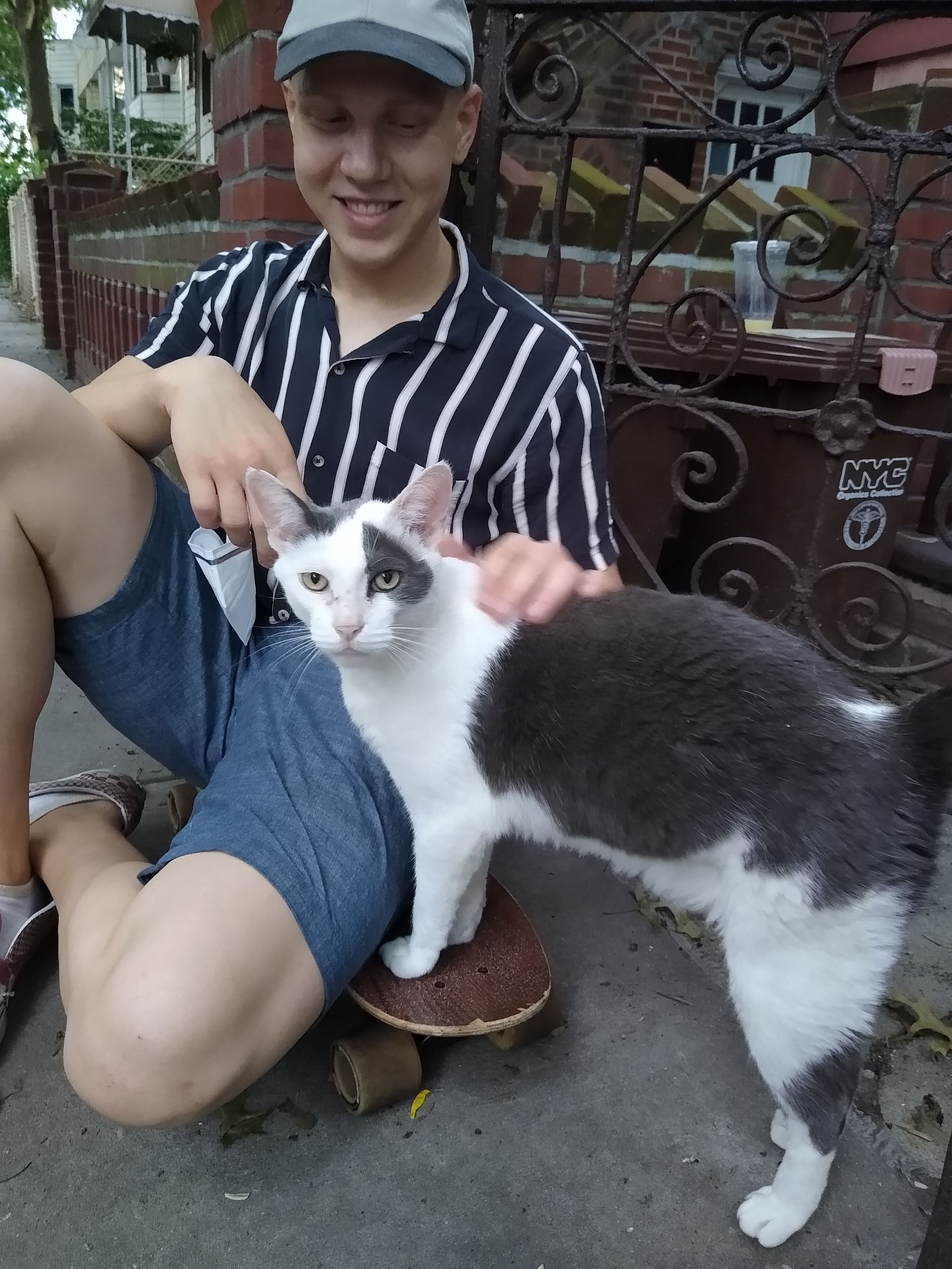
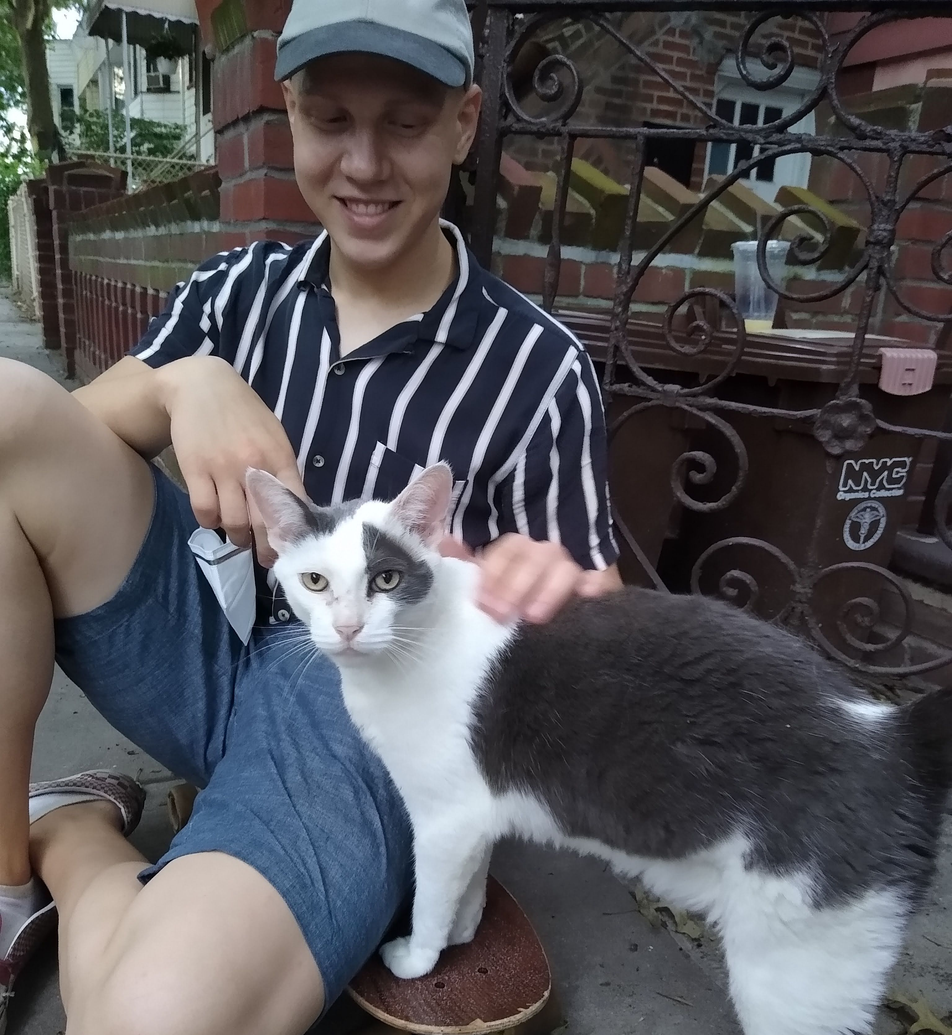
fix arrows; resize images

diff --git a/css/index.css b/css/index.css
@@ -11,6 +11,7 @@ a {
   padding: 10px;
 }
 
+/* Make links change color when passed over */
 a:hover {
   color: #B4436C;
   background-color: #F2C14E;
@@ -30,6 +31,9 @@ img {
   padding: 10px;
 }
 
+.sampic, .krispic, .gobpic {
+  width: 60%;
+}
 
 /* From here on is all lifted from W3schools */
 
@@ -66,6 +70,13 @@ img {
 /* Position the "next button" to the right */
 .next {
   right: 0;
+  border-radius: 3px 0 0 3px;
+}
+
+/* Position the "prev button" to the left */
+/* I actually added this! Weird that W3 didn't have it. */
+.prev {
+  left: 0;
   border-radius: 3px 0 0 3px;
 }
 

diff --git a/index.html b/index.html
@@ -58,19 +58,19 @@
 
  <div class="mySlides fade">
    <div class="numbertext">4 / 6</div>
-   <img src="img/sam.jpg">
+   <img class="sampic" src="img/sam.jpg">
    <div class="text">Sam</div>
  </div>
 
  <div class="mySlides fade">
    <div class="numbertext">5 / 6</div>
-   <img src="img/kris.jpeg">
+   <img class="krispic" src="img/kris.jpeg">
    <div class="text">Kris</div>
  </div>
 
  <div class="mySlides fade">
    <div class="numbertext">6 / 6</div>
-   <img src="img/goblin.webp">
+   <img class="gobpic" src="img/goblin.webp">
    <div class="text">Goblino</div>
  </div>
 
